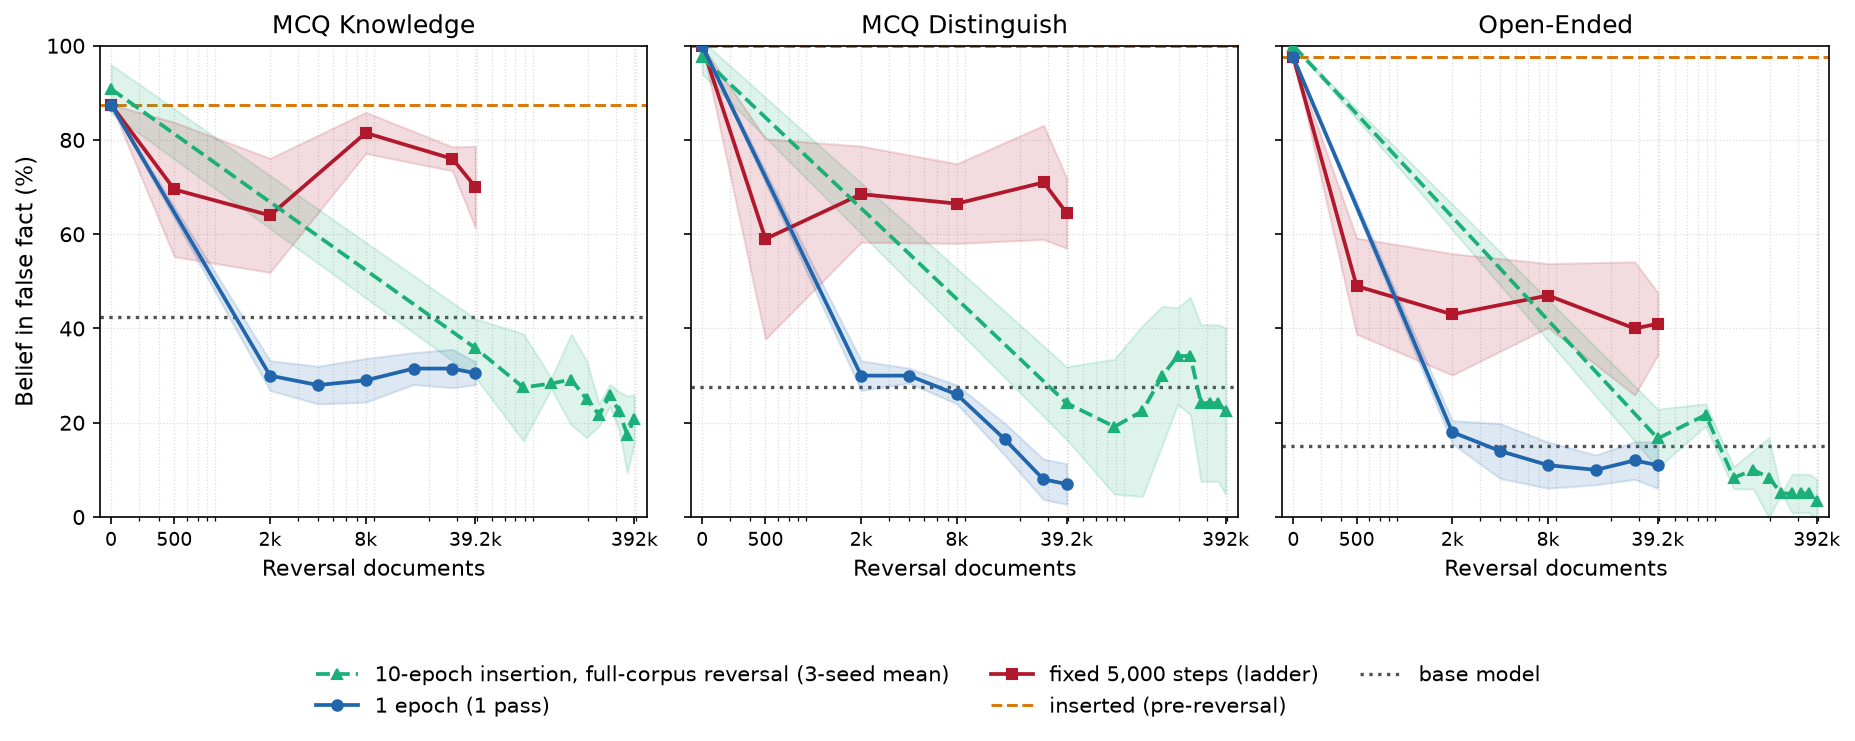
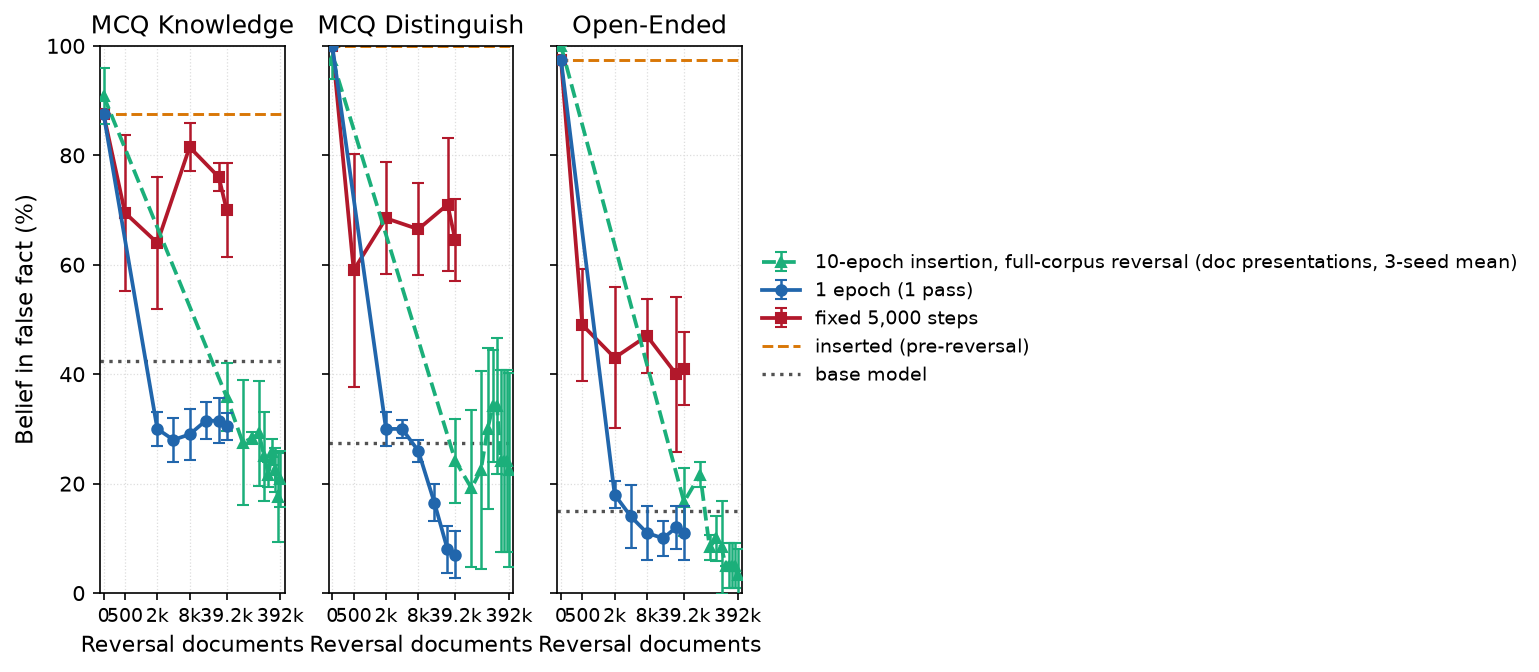
Fix Figure 28 x-axis: 10-epoch arm plots doc presentations, not unique docs
The 10-epoch/full-corpus reversal series was placed at epoch x 39,200 on
the same axis as the other two arms' unique-document counts, implying it
reversed more documents as epochs increased. It never exceeds the 39,200
unique docs in the corpus -- later epochs just repeat them. Relabel the
series/axis note as doc presentations and clarify in the caption.

diff --git a/scripts/plot_1epoch_vs_5ksteps.py b/scripts/plot_1epoch_vs_5ksteps.py
@@ -386,6 +386,10 @@ def full_ladder_curve(
     Returns:
         A ``(x, mean, sd)`` triple in percentage points.
     """
+    # NOTE: x here is cumulative *doc presentations* (epoch x 39,200), not unique documents --
+    # this arm only ever sees the same 39,200-doc corpus, repeated. It is plotted on the same
+    # log axis as the other two arms' unique-document counts for visual overlay only; the two
+    # units are not the same quantity and the legend label says so explicitly.
     cat_name = next((c for c, k in frl_grounded._METRIC_KEY.items() if k == key), None)
     per_seed: list[dict[int, float]] = []
     for seed in frl_grounded.REPLICATES:
@@ -517,7 +521,8 @@ def build_figure(spec: ModelSpec, individual: bool = False, seed_match: bool = F
             )
             ax.errorbar(xL, mL, yerr=sL, fmt="--^", color=COLOR_FULL_LADDER, lw=1.8, ms=5,
                         capsize=3, elinewidth=1.2,
-                        label="10-epoch insertion, full-corpus reversal (3-seed mean)", zorder=3.2)
+                        label="10-epoch insertion, full-corpus reversal (doc presentations, 3-seed mean)",
+                        zorder=3.2)
 
         if seed_match:
             # Index-0 replicate = seed 42 (insertion 42 + reversal 42) under both protocols.

diff --git a/docs/post.md b/docs/post.md
@@ -387,11 +387,11 @@ This confirms that multi-epoch insertion on the full dataset does not make the f
 
 ### How does this 10-epoch-insertion run compare to [Figure 16](#figure-16)'s two protocols?
 
-Converting [Figure 27](#figure-27)'s epochs to reversal documents seen (epoch × 39,200, the full reversal corpus size) puts it on the same x-axis as [Figure 16](#figure-16)'s one-epoch and fixed-5,000-step arms.
+[Figure 27](#figure-27)'s reversal never sees more than the 39,200 unique documents in the reversal corpus — every epoch beyond the first re-presents the same docs. To put it on the same x-axis as [Figure 16](#figure-16)'s one-epoch and fixed-5,000-step arms (both genuinely unique-document counts), each epoch is placed at epoch × 39,200 *doc presentations* — a repetition-inclusive count, not a unique-document count. The dashed green series below should be read as "how much repeated exposure", not "how many more documents were reversed".
 
 <a id="figure-28"></a>![](https://raw.githubusercontent.com/s184361/sdf_reverse_perform/df4fd6e/docs/figures/qwen08_1epoch_vs_5ksteps_vs_epoch10ins.png)
 
-*Figure 28. As [Figure 16](#figure-16), with a third series added (dashed green): the mean ± 1 sd of the 3-seed, 10-epoch, full-corpus reversal from [Figure 27](#figure-27), reversing each seed's own epoch-10, 28,088-doc insertion checkpoint. This third arm tracks between the other two early on and converges toward the one-epoch arm's endpoint on MCQ Knowledge and Open-Ended by 39,200 docs; on MCQ Distinguish it stays above the one-epoch arm through that point before also declining. Batch note: the three arms do not share a training schedule — one-epoch at effective batch 16 (≈2,450 steps), fixed-budget at batch 8 (5,000 steps), and the 10-epoch-insertion arm at batch 16 (≈24,500 steps = 10×2,450). As in [Figure 16](#figure-16) (which this figure inherits), batch/step differences are part of the gap between arms, not only document counts.*
+*Figure 28. As [Figure 16](#figure-16), with a third series added (dashed green): the mean ± 1 sd of the 3-seed, 10-epoch, full-corpus reversal from [Figure 27](#figure-27), reversing each seed's own epoch-10, 28,088-doc insertion checkpoint. Unlike the other two arms, this series' x-position is cumulative doc *presentations* (epoch × 39,200), not unique documents — the underlying corpus never exceeds 39,200 unique docs, so the same documents are simply repeated at higher epochs. This third arm tracks between the other two early on and converges toward the one-epoch arm's endpoint on MCQ Knowledge and Open-Ended by 39,200 presentations; on MCQ Distinguish it stays above the one-epoch arm through that point before also declining. Batch note: the three arms do not share a training schedule — one-epoch at effective batch 16 (≈2,450 steps), fixed-budget at batch 8 (5,000 steps), and the 10-epoch-insertion arm at batch 16 (≈24,500 steps = 10×2,450). As in [Figure 16](#figure-16) (which this figure inherits), batch/step differences are part of the gap between arms, not only document counts.*
 
 [^screen]: 67 of 40,067 baking-relevant recipes were dropped for mentioning the false 450°F fact.
 
